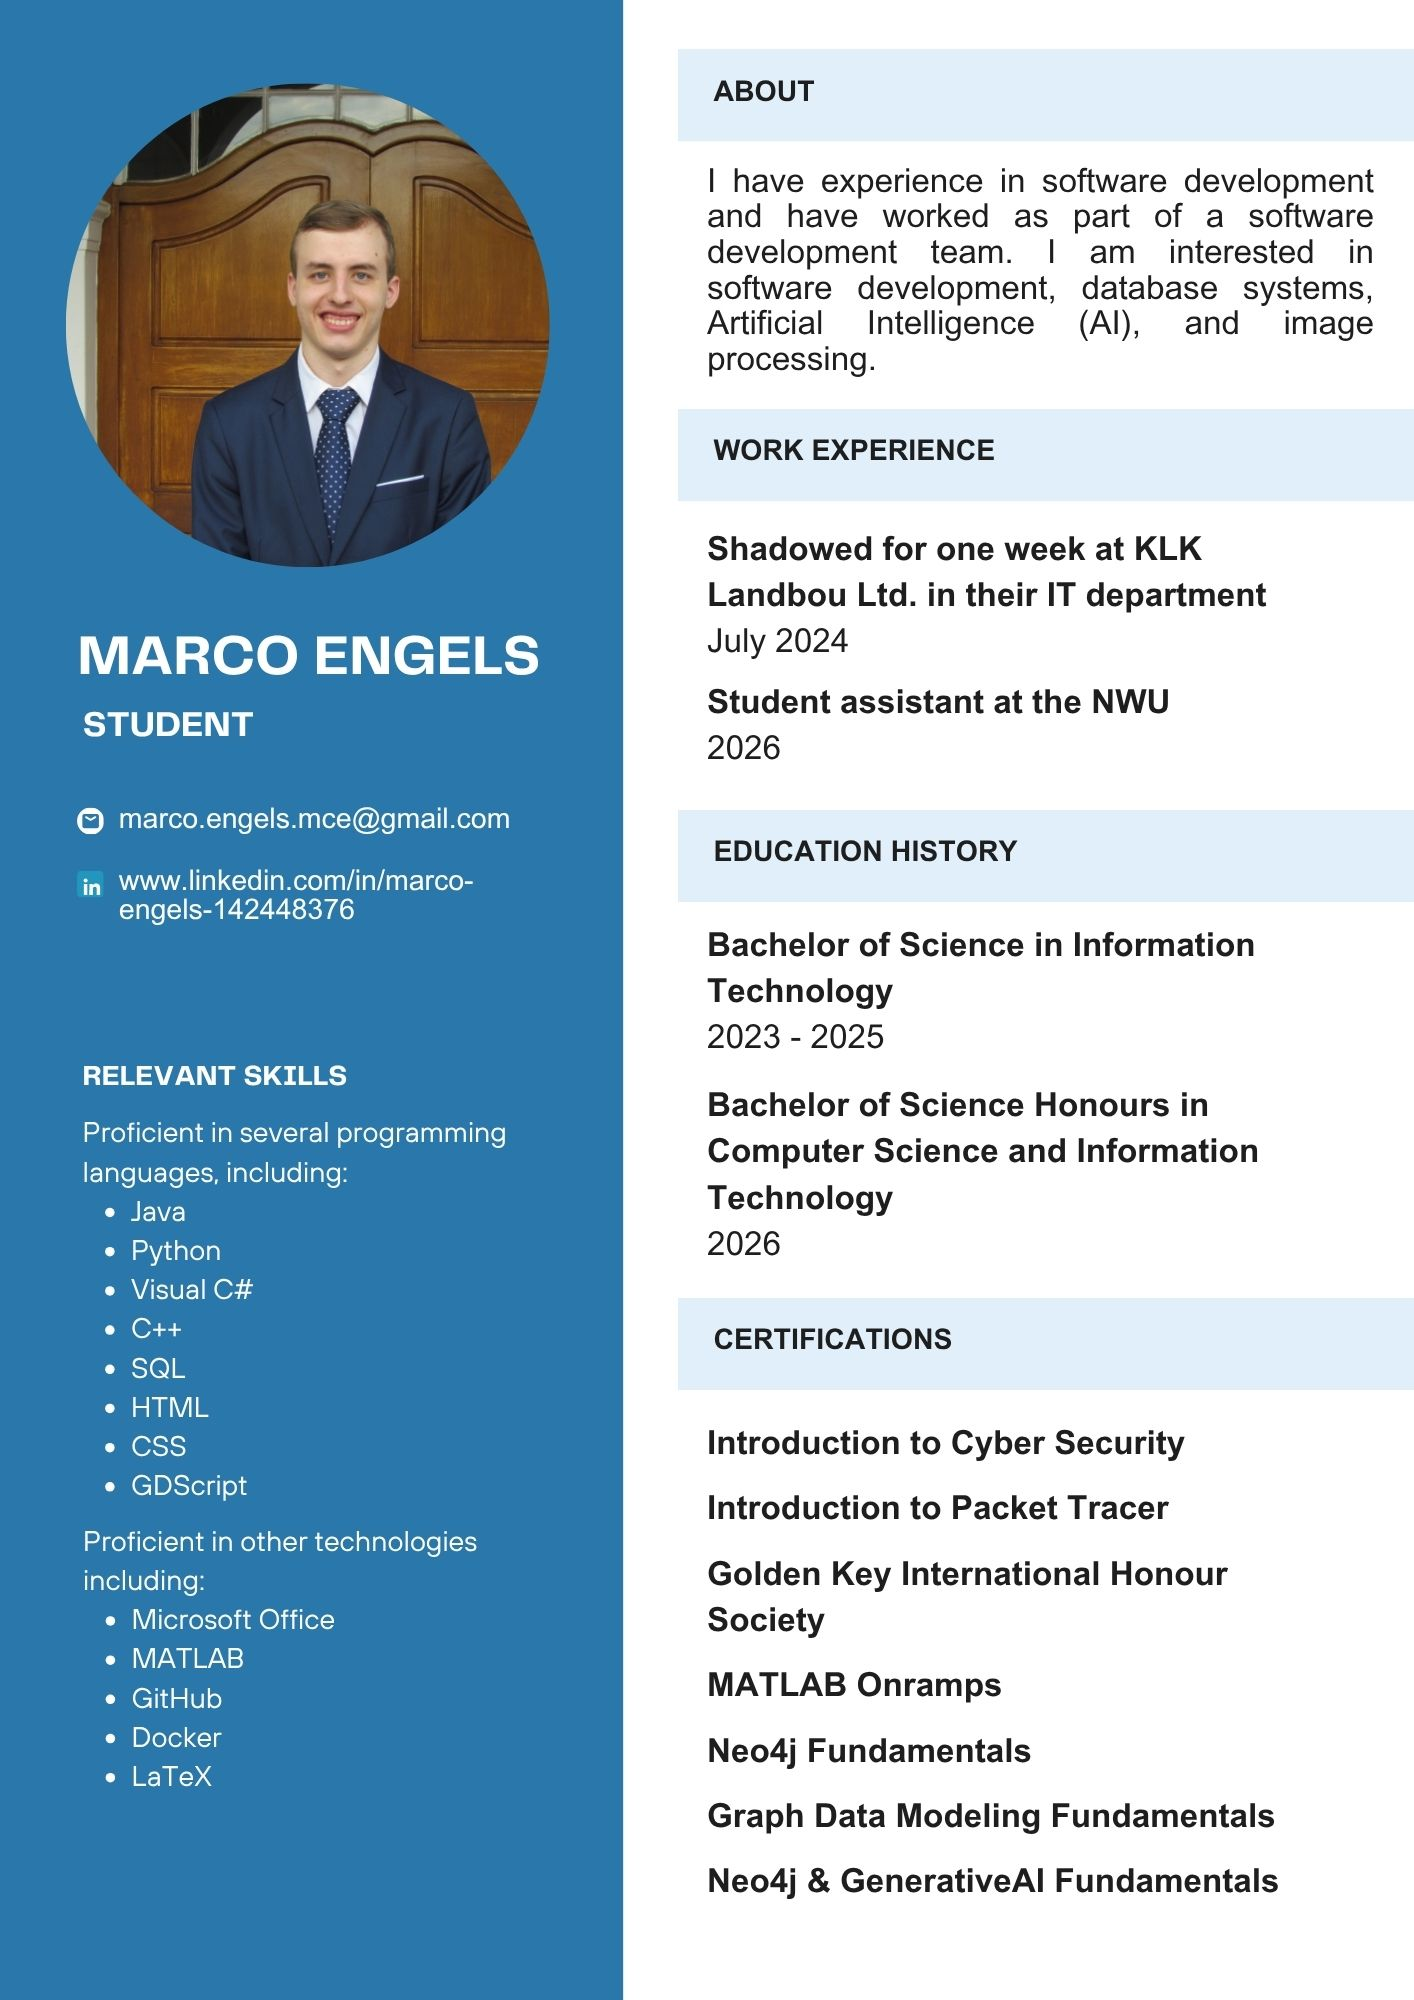
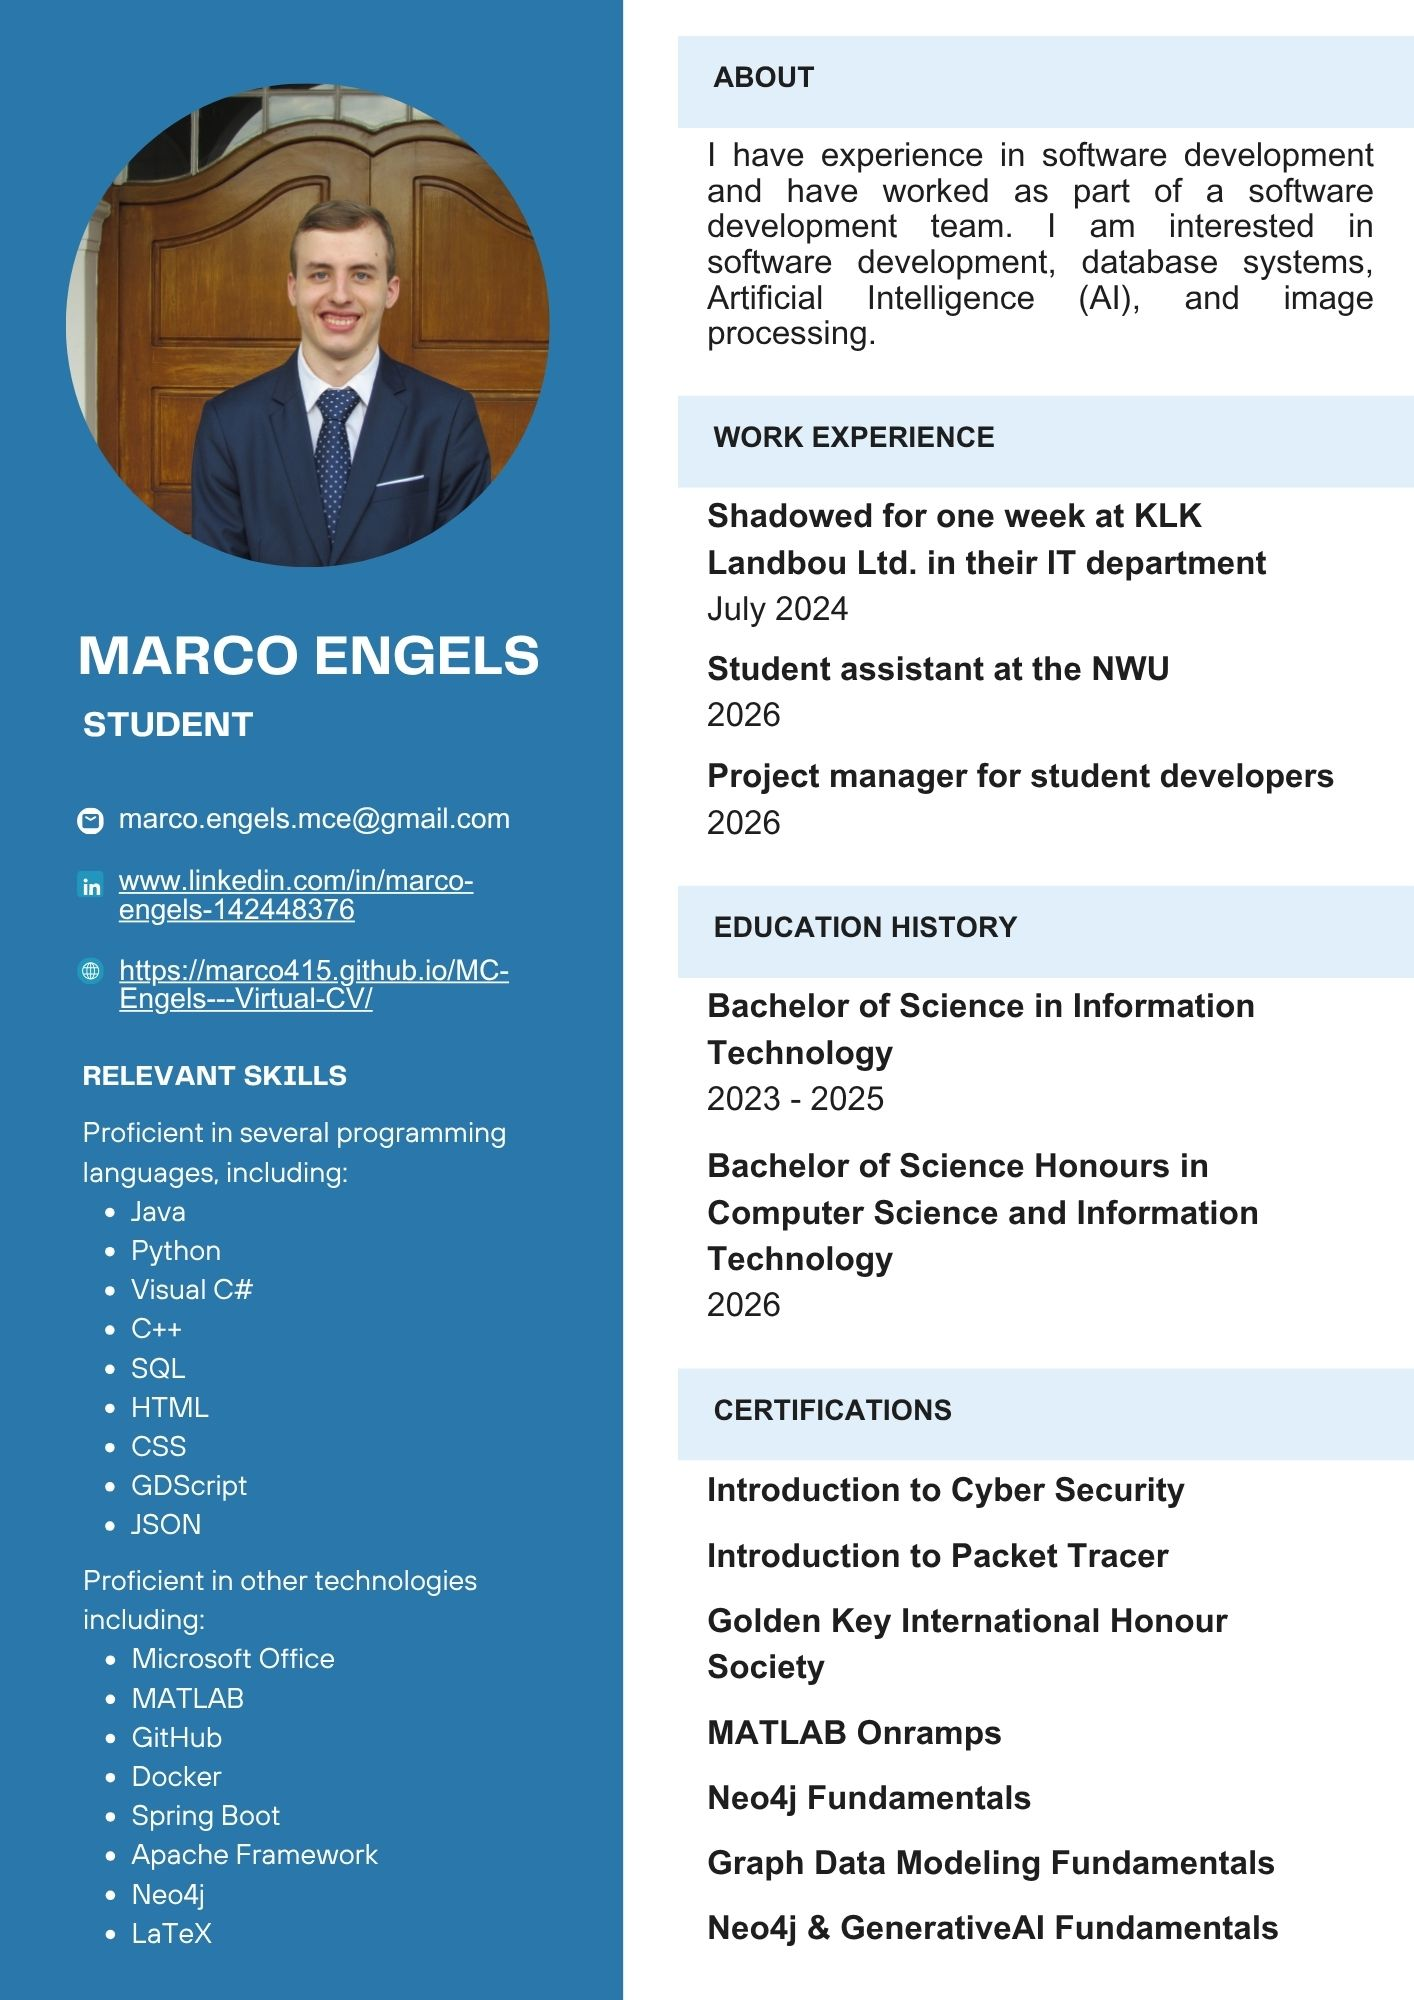
Updated relevant section technologies

Changed region(s): [[0.4668, 0.0, 1.0, 0.992], [0.0622, 0.744, 0.3423, 0.992], [0.0622, 0.434, 0.3734, 0.527]]

diff --git a/index.html b/index.html
@@ -58,6 +58,7 @@
 								<li>SQL</li>
 								<li>HTML &amp; CSS</li>
 								<li>GDScript</li>
+								<li>JSON</li>
 							</ul>
 						</div>
 						<div class="skill-card">
@@ -66,6 +67,10 @@
 								<li>Microsoft Office</li>
 								<li>MATLAB</li>
 								<li>Docker</li>
+								<li>GitHub</li>
+								<li>Spring Boot</li>
+								<li>Apache Framework (Kafka, Flink, Cassandra, Superset)</li>
+								<li>Neo4j</li>
 								<li>LaTeX</li>
 							</ul>
 						</div>
@@ -86,6 +91,7 @@
 							<ul>
 								<li>Shadowed for one week at KLK Landbou Ltd. in their IT department (July 2024)</li>
 								<li>Student assistant at the NWU (2026)</li>
+								<li>Project manager for student developers (2026)</li>
 							</ul>
 						</div>
 					</div>
